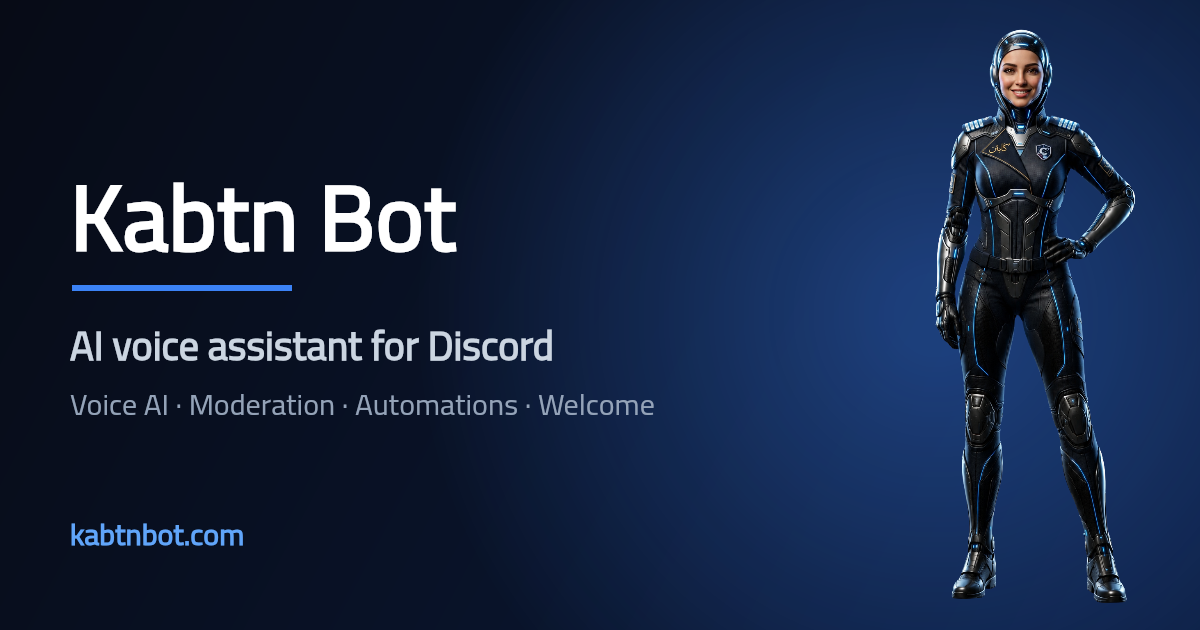
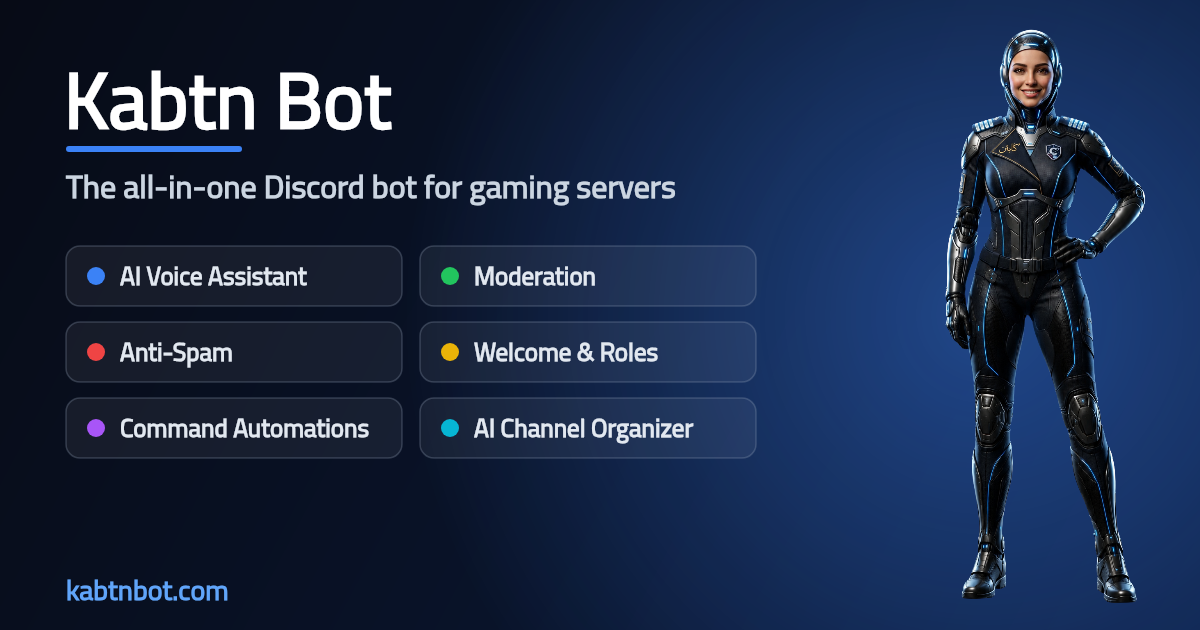
feat(web): feature-showcase OG image + stronger SEO meta
- New 1200×630 OG image: brand + mascot + six feature cards (AI Voice
  Assistant, Moderation, Anti-Spam, Welcome & Roles, Command Automations,
  AI Channel Organizer) so a shared link previews what the bot does.
- Meta: broader Arabic + English keywords, application-name/author, a
  feature-rich og:image:alt, and JSON-LD enriched with featureList,
  screenshot and applicationSubCategory.

diff --git a/apps/web/index.html b/apps/web/index.html
@@ -14,10 +14,12 @@
     />
     <meta
       name="keywords"
-      content="كابتن بوت, بوت ديسكورد, بوت ديسكورد عربي, مساعد صوتي, حماية سيرفر, مكافحة سبام, بوت قيمنق, Kabtn bot, discord bot, voice AI"
+      content="كابتن بوت, بوت ديسكورد, بوت ديسكورد عربي, مساعد صوتي ذكي, بوت حماية, مكافحة سبام, رسائل ترحيب, أتمتة أوامر, ترتيب القنوات, بوت قيمنق, بوت العاب, Kabtn bot, discord bot, arabic discord bot, voice AI, moderation bot, welcome bot, anti-spam bot"
     />
     <meta name="robots" content="index, follow" />
     <meta name="theme-color" content="#0b1220" />
+    <meta name="application-name" content="Kabtn Bot" />
+    <meta name="author" content="Kabtn Bot" />
     <link rel="canonical" href="https://kabtnbot.com/" />
 
     <!-- Icons -->
@@ -36,7 +38,7 @@
     <meta property="og:image" content="https://kabtnbot.com/og-image.png" />
     <meta property="og:image:width" content="1200" />
     <meta property="og:image:height" content="630" />
-    <meta property="og:image:alt" content="Kabtn Bot — AI voice assistant for Discord" />
+    <meta property="og:image:alt" content="Kabtn Bot — AI voice assistant, moderation, anti-spam, welcome, automations & AI channel organizer for Discord" />
     <meta property="og:locale" content="ar_AR" />
     <meta property="og:locale:alternate" content="en_US" />
     <meta property="og:locale:alternate" content="de_DE" />
@@ -61,11 +63,22 @@
         "name": "Kabtn Bot",
         "alternateName": "كابتن بوت",
         "applicationCategory": "CommunicationApplication",
+        "applicationSubCategory": "Discord Bot",
         "operatingSystem": "Discord",
         "url": "https://kabtnbot.com/",
         "image": "https://kabtnbot.com/og-image.png",
+        "screenshot": "https://kabtnbot.com/og-image.png",
         "inLanguage": ["ar", "en", "de", "fr", "ru", "tr"],
         "description": "بوت ديسكورد عربي بمساعد صوتي بالذكاء الاصطناعي، حماية ومكافحة سبام، رسائل ترحيب، أتمتة الأوامر، وترتيب القنوات تلقائياً.",
+        "featureList": [
+          "AI voice assistant",
+          "Moderation",
+          "Anti-spam",
+          "Welcome messages & auto roles",
+          "Command automations",
+          "AI channel organizer",
+          "Server stats"
+        ],
         "offers": { "@type": "Offer", "price": "0", "priceCurrency": "USD" }
       }
     </script>
